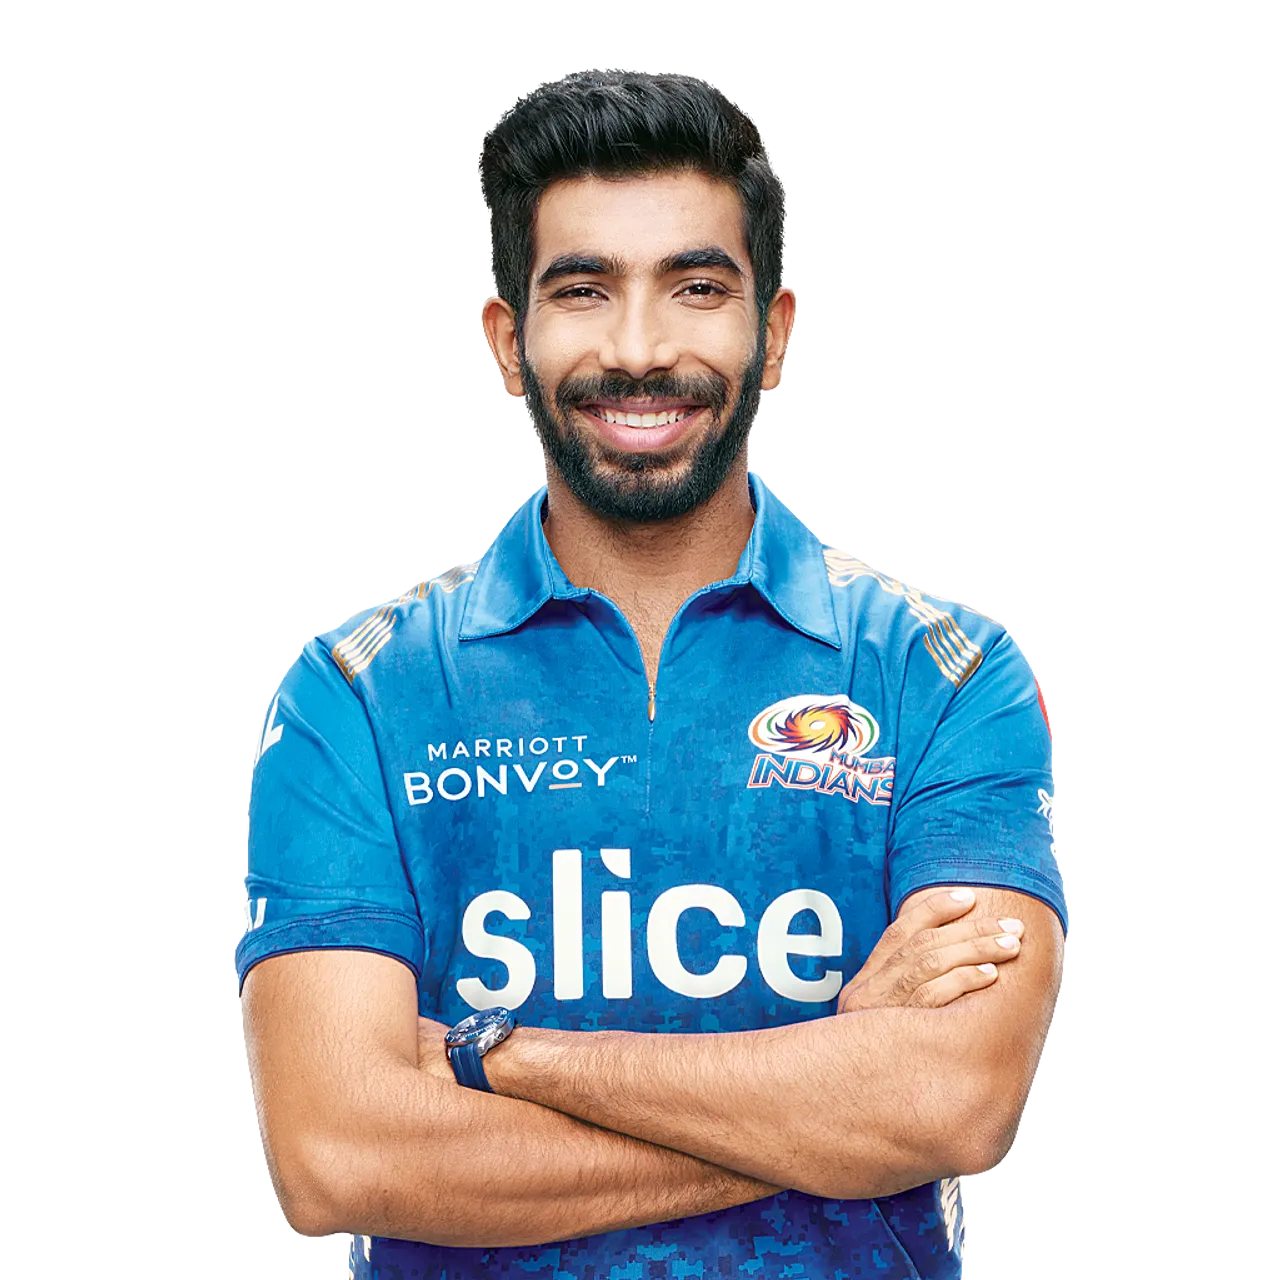
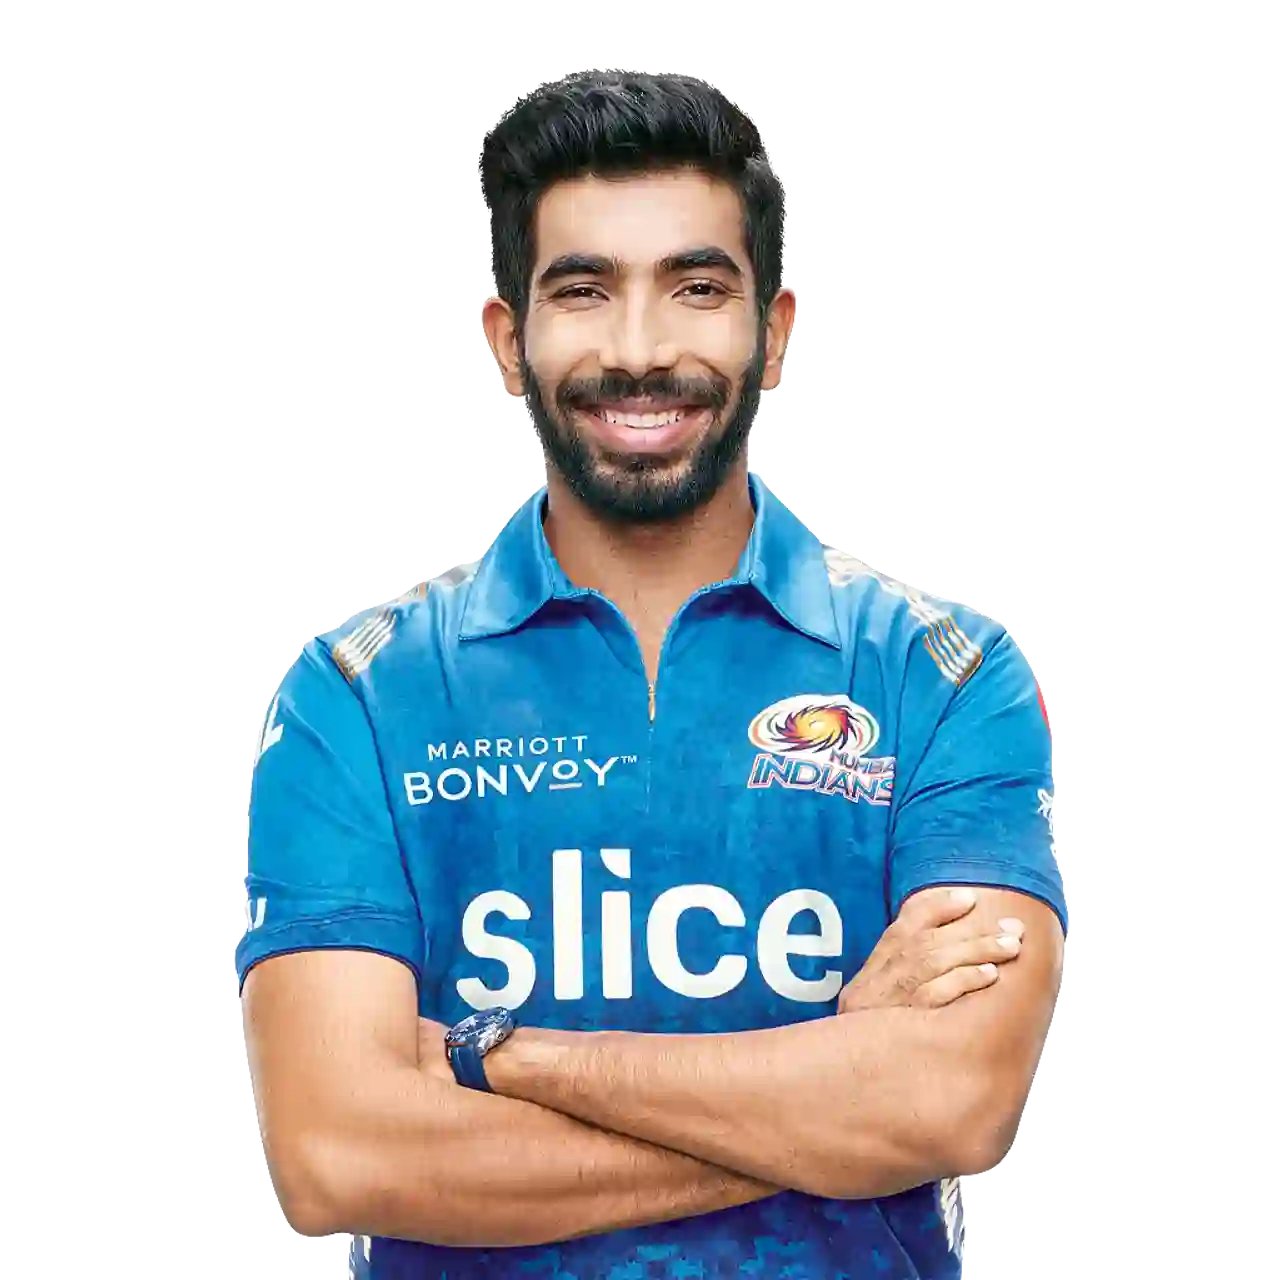
compressed all images

diff --git a/public/views/js/database4myAuction.js b/public/views/js/database4myAuction.js
@@ -1,5 +1,14 @@
-let count = 0;
 const socket = io('https://auction-arsh.onrender.com');
+
+//on page reload , going back to database details
+
+socket.on("user connected",()=>{
+    console.log('connection established');
+   // changePlayer()
+
+ });
+
+//changing player order and details
 
 const search = document.getElementById("change");
 const next = document.getElementById('NEXT');
@@ -43,9 +52,9 @@ socket.on('change-Player', (result) => {
     result.forEach(myElement => {
         document.getElementById("name").innerHTML = myElement.name;
         document.getElementById("playerNum").innerHTML = myElement.order;
-        document.getElementById("currPlayerImg").src = "/resources/Players/" + myElement.name + ".png";
-        document.getElementById("roleImg").src = "/resources/icons/" + myElement.Role + ".png";
-        document.getElementById("flagImg").src = "/resources/icons/" + myElement.Nationality + ".png";
+        document.getElementById("currPlayerImg").src = "/resources/Players/" + myElement.name + ".webp";
+        document.getElementById("roleImg").src = "/resources/icons/" + myElement.Role + ".webp";
+        document.getElementById("flagImg").src = "/resources/icons/" + myElement.Nationality + ".webp";
         document.getElementById("batAvg").innerHTML = myElement.batPts;
         document.getElementById("bowlPts").innerHTML = myElement.bowlPts;
         document.getElementById("basePrice").innerHTML = myElement.BasePrice;
@@ -65,9 +74,9 @@ socket.on('change-Player', (result) => {
 
 
 //Increasing Bid
+
 let currentBid = document.getElementById("Amount");
 const basePrice=document.getElementById("basePrice");
-//let substracting_value = 0;
 
 const bidupButton = document.getElementById("UP");
 const soldButton = document.getElementById("Sold");
@@ -104,3 +113,8 @@ function increaseBid(){
     console.log(value);
     currentBid.innerHTML=value;
  })
+
+
+
+
+ //Selling a player 

diff --git a/public/dist/css/myAuction.css b/public/dist/css/myAuction.css
@@ -260,8 +260,8 @@ p {
 
     
     /*done through javascript*/
-    border: 0.1rem solid rgb(120, 43, 235);
-    background-color: rgba(120, 43, 235, 0.388) ;
+    /*border: 0.1rem solid rgb(120, 43, 235);
+    background-color: rgba(120, 43, 235, 0.388) ;*/
     box-shadow: 0rem 0.5rem 2rem 0 rgb(0, 0, 0, 0.37);
     position: absolute;
     margin-top: 16rem;
@@ -277,7 +277,7 @@ p {
 #currPlayerImg {
 
     /* border:2px black solid;*/
-   
+    filter: drop-shadow(0px 0px 10px #363636);
     position: absolute;
     width: 30rem;
     transform: translate(3rem) translateY(-5rem);
@@ -559,8 +559,17 @@ button:active {
     padding: 0.2rem;
 }
 
+label .logo{
+   
+    width: 2.2rem;
+}
+
+#srh .logo{
+    width: 2.8rem;
+}
+
 .logo {
-    height: 3rem;
+    width: 3rem;
     display: inline;
 }
 
@@ -589,6 +598,7 @@ button:active {
     flex-wrap: wrap;
     transition: all .2s ease-in;
     position: relative;
+    align-items: center;
     box-shadow: 0rem 0.5rem 2rem 0 rgb(0, 0, 0, 0.37);
 
 }

diff --git a/index.js b/index.js
@@ -38,6 +38,7 @@ const io = require('socket.io')(http, {
 
 io.on('connection', (mySocket) => {
     console.log('a user connected');
+
     io.emit("user connected");
 
     mySocket.on('disconnect', () =>

diff --git a/public/dist/css/navbar.css b/public/dist/css/navbar.css
@@ -43,11 +43,11 @@ header{
     padding-right:5%;
     z-index: 2;
 }
-.logo{
+ .main-logo{
     height: 2.5rem;
 }
 
- .logo a{
+ .main-logo a{
     font-size: 1.5rem;
     font-weight: bold;
 }

diff --git a/models/cricketers.js b/models/cricketers.js
@@ -42,6 +42,9 @@ const playerSchema = new mongoose.Schema({
     },
     sellingStatus:{
         type:Number
+    },
+    imgSrc:{
+        type:String
     }
 })
 
